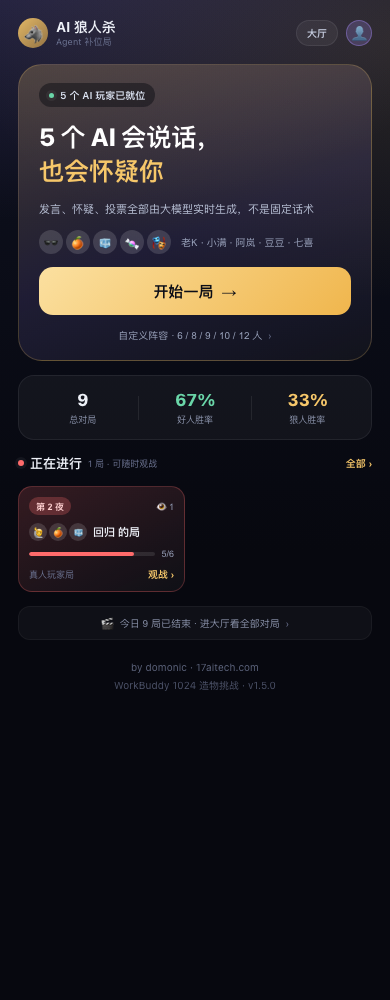
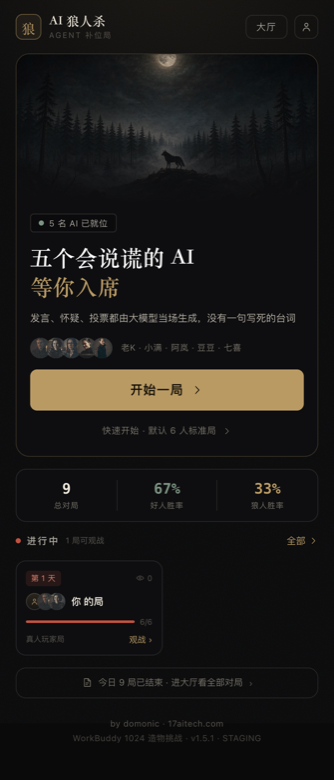
docs: 补设计规范 v2 与新截图，README 同步
- 新增 docs/DESIGN-V2.md：色板/字体/形状/图标/图像/动效/文案规则与复现方式
- 更新 docs/screenshots/ 六屏截图（含新增「对局中」）
- README：界面预览扩到六屏并加设计规范入口；功能特性去掉 emoji
- docs/DESIGN-PARITY.md 标注已被 v2 取代

diff --git a/docs/DESIGN-V2.md b/docs/DESIGN-V2.md
@@ -1,0 +1,124 @@
+# 设计规范 v2 ·「夜席 NOCTURNE」
+
+> 目标：把原型从「AI 生成的深色卡片堆」改造成**可信的、有作者感的**移动端游戏界面。
+> 方法论来自 ui-ux-pro-max 设计技能（Style Selection / Typography / Accessibility 三条优先线），
+> 结合狼人杀这一题材的既有视觉语言（桌游、纸质角色牌、油灯、档案、月相）。
+
+## 为什么 v1 一眼像 AI
+
+| 症状 | v1 的做法 | v2 的对策 |
+|---|---|---|
+| emoji 当图标 | 🐺🔮🧪🙋 混用在头像、角色、按钮 | 全部换成自绘 1.5px 描边 SVG；人物用插画头像 |
+| 多彩渐变滥用 | 金色→紫色 158° 斜切渐变铺满 Hero、卡片、按钮 | 只用单色压暗（scrim）与 8% 同色底，禁双色斜切渐变 |
+| 圆角/胶囊通货膨胀 | 24px 卡、999px 药丸、毛玻璃 | 圆角收到 4/8/12/16 四档，胶囊只给筛选与徽标 |
+| 纯色紫蓝 + 霓虹光晕 | `#a78bfa` 光斑 + 阴影外发光 | 夜间桌面的低饱和暖灰，唯一强调色是旧黄铜 |
+| 信息层级全靠加亮 | 所有标题 800 字重、全是白字 | 衬线标题 + 无衬线正文 + 单色分层，靠字号与留白拉层级 |
+| 假数据撑场面 | 「128 局 · 1,204 人在看」 | 只显示服务端真实数字，空就空着 |
+
+## 概念
+
+**夜席**：一张桌、一盏灯、六张扣着的牌。界面像**桌游的纸质道具**，不像 SaaS 面板。
+
+三条视觉原则：
+
+1. **纸与灯**：底色是暖黑（不是纯黑、不是蓝黑），文字是陈纸白；光只从一侧来（顶部单光源）。
+2. **少而准的强调色**：全站只有一个「金」= 旧黄铜 `--brass`，危险才用 `--ember`；其余靠明度差。
+3. **手作痕迹**：1px 发丝线、颗粒噪点、编号与刻度——让画面有印刷品的密度，不像自动生成的渐变块。
+
+## 色板（语义 token）
+
+| Token | 值 | 用途 |
+|---|---|---|
+| `--ink-900` | `#0A0A0B` | 页面底 |
+| `--ink-850` | `#0E0E10` | 分区底 |
+| `--ink-800` | `#131315` | 卡片 |
+| `--ink-700` | `#191A1D` | 卡内浮层 / 输入框 |
+| `--line` | `rgba(255,255,255,0.09)` | 发丝线 |
+| `--line-strong` | `rgba(255,255,255,0.16)` | 可交互描边 |
+| `--bone` | `#EDE7DA` | 主文字（陈纸白，非纯白） |
+| `--ash` | `#A6A199` | 次要文字 |
+| `--smoke` | `#767268` | 辅助 / 占位 |
+| `--brass` | `#B99A63` | 唯一强调色：主按钮、选中、关键数字 |
+| `--brass-dim` | `#8A7444` | 强调色的暗部 |
+| `--ember` | `#C0523F` | 狼人 / 危险 / 出局 |
+| `--sage` | `#7C9483` | 好人 / 存活 / 通过 |
+| `--steel` | `#71849B` | 神职 / 夜间信息 |
+
+对比度：`--bone` on `--ink-800` = 12.6:1，`--ash` on `--ink-800` = 6.4:1，`--brass` on `--ink-900` = 6.1:1，均过 WCAG AA。
+
+## 字体
+
+| 角色 | 字体栈 | 用法 |
+|---|---|---|
+| Display `--font-display` | `"Songti SC","Noto Serif SC","Source Han Serif SC",Georgia,serif` | 页面主标题、结算判定、座位号 |
+| UI `--font-ui` | `-apple-system,"PingFang SC","Helvetica Neue",Arial,sans-serif` | 正文、按钮、表单 |
+| Mono `--font-mono` | `ui-monospace,"SF Mono",Menlo,monospace` | 对局编号、房间码、票数等数字 |
+
+字号阶梯：10 / 11 / 12 / 13 / 15 / 17 / 21 / 26（正文不小于 12，主标题用衬线 + 600，不再全站 800）。
+数字统一 `font-variant-numeric: tabular-nums`。
+
+## 形状与层次
+
+- 圆角：`--r-sm 4px`（徽标）/`--r-md 8px`（输入、小卡）/`--r-lg 12px`（卡片）/`--r-xl 16px`（容器）
+- 描边：1px 发丝线为主，交互件才用 `--line-strong`；不用外发光阴影
+- 阴影：只在浮层（提示条、底部操作区）用 `0 8px 24px rgba(0,0,0,.5)`
+- 质感：页面顶部一层 6% 的单光源渐变 + 全页 3% 颗粒噪点（内联 SVG `feTurbulence`），纯 CSS，无图片请求
+
+## 图标
+
+- 统一 `viewBox="0 0 24 24"`、`stroke-width 1.5`、圆头圆角、`currentColor`
+- 尺寸 16 / 18 / 20 / 24，只用几何构造，不描细节（16px 下也要清楚）
+- 角色徽记（狼 / 眼 / 药瓶 / 猎枪 / 盾 / 面具 / 杖 / 冠 / 月 / 村民）用简短字形，不用 emoji
+- 图标一律配文字或 `aria-label`，不做「只有图标的裸按钮」（返回键例外，有 `aria-label`）
+
+## 图像
+
+| 资产 | 规格 | 用途 |
+|---|---|---|
+| `hero-night.jpg` | 1536×1024 生成图 | 首页 Hero 顶部主视觉（狼影 / 月 / 雾），顶部压暗后叠字 |
+| `agent-*.jpg` ×5 | 1024×1024 生成图 | 五个 AI 玩家头像，统一侧光、颗粒、低饱和 |
+| 人物默认头像 | SVG 剪影 | 真人玩家与自己 |
+
+图像使用规则：一律加暗角与顶部 scrim 保证文字对比；不用彩色滤镜；不用圆角以外的装饰。
+
+## 动效
+
+- 时长 160–240ms，`cubic-bezier(.2,.8,.2,1)`；只动 `opacity` / `transform`
+- 页面切换：淡入 + 8px 上移（保留）
+- 按钮按下：`scale(.98)`，不做回弹
+- 尊重 `prefers-reduced-motion`：全部动画降为 0
+
+## 文案语气
+
+短句、克制、有判断，不用感叹号，不用「✨ 系统已为你…」这类运营腔。
+例：`5 个会说谎的 AI，等你入席` / `今晚的牌，由你定` / `没有人在看这局`。
+
+## 落地检查清单
+
+- [ ] 全站无 emoji 字符（含服务端下发的选项文案）
+- [ ] 无双色斜切渐变、无外发光、无毛玻璃
+- [ ] 强调色只出现于主按钮 / 选中 / 关键数字
+- [ ] 所有可点区域 ≥ 44×44 或带透明扩展热区
+- [ ] 图标为 SVG，且与文字同色系
+- [ ] 空态有文案，加载态有骨架，错误态贴近出错位置
+
+## 落地产物
+
+| 产物 | 位置 |
+|---|---|
+| 设计规范（本文） | `docs/DESIGN-V2.md` |
+| Ardot 设计文件（六屏画板 + 令牌面板） | https://ardot.tencent.com/file/739278326396024 |
+| 图标组件 | `client/src/components/Icon.tsx`（24×24 / 1.5px 描边 / currentColor） |
+| 头像组件 | `client/src/components/Avatar.tsx`（生成插画 + 真人剪影） |
+| 图像资产 | `client/public/art/`（hero-night.jpg + 5 张 agent 头像，文生图后裁掉水印） |
+| 样式实现 | `client/src/styles/app.css`（全部 token 与组件样式） |
+| 走查截图 | `docs/screenshots/`（六屏，`npm run screens` 生成） |
+
+### 复现截图 / 设计稿
+
+```bash
+npm run build
+PORT=4399 WB_ENV=staging npm start &     # 本地起一份服务（staging 不写生产战绩）
+npm run screens                          # 截图到 tmp/screens（390×844 @2x）
+node tools/ardot-export.mjs http://localhost:4399 docs/designs-v2   # 导出可导入 Ardot 的静态稿
+```

diff --git a/docs/DESIGN-PARITY.md b/docs/DESIGN-PARITY.md
@@ -1,5 +1,8 @@
 # 设计对齐清单（v1.5 改版）
 
+> **已被 v2 取代**：2026-10 起视觉以 [DESIGN-V2.md](DESIGN-V2.md) 为准（去 emoji、去多彩渐变，
+> 暖黑纸面 + 发丝 + 旧黄铜单一强调色）。本文保留为 v1.5 居中对齐记录，作历史参考。
+
 **设计源**：`docs/designs/*.html`（Ardot 导出的 390×844 移动屏，含 `data-name` 与全部尺寸）
 **实现**：`client/src/styles/app.css` 的「设计稿还原」段落 + 各页面 `page-*` 结构
 **校验方式**：`tools/design-outline.mjs` 抽设计结构 → 实现 → 无头 Chrome 按 390 宽截图逐屏比对
